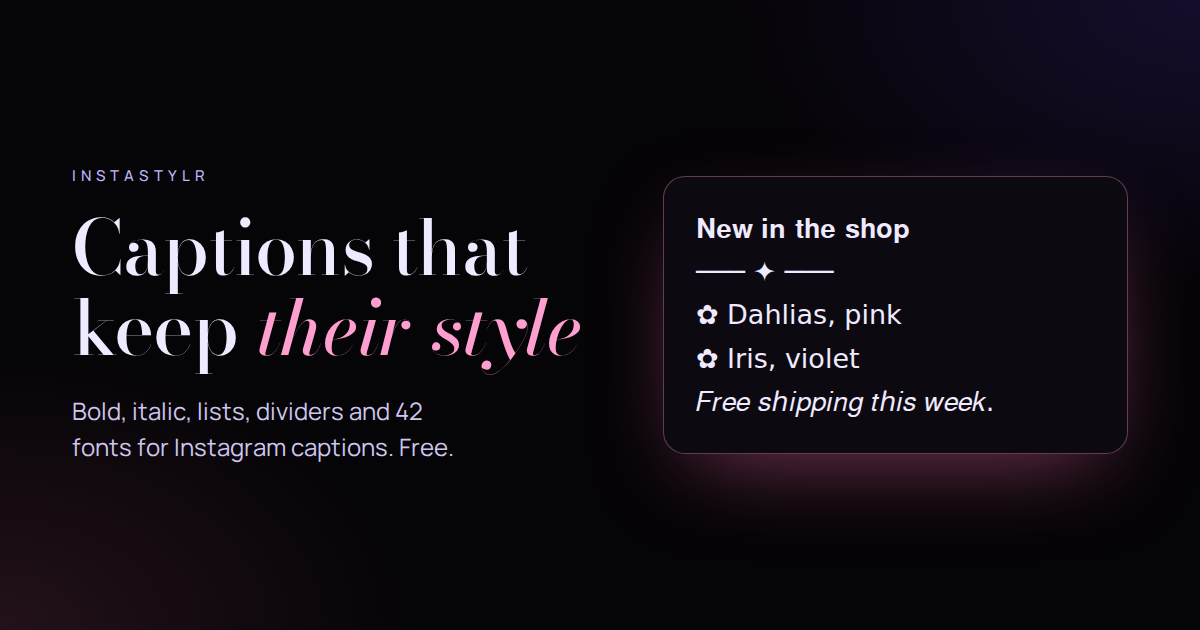
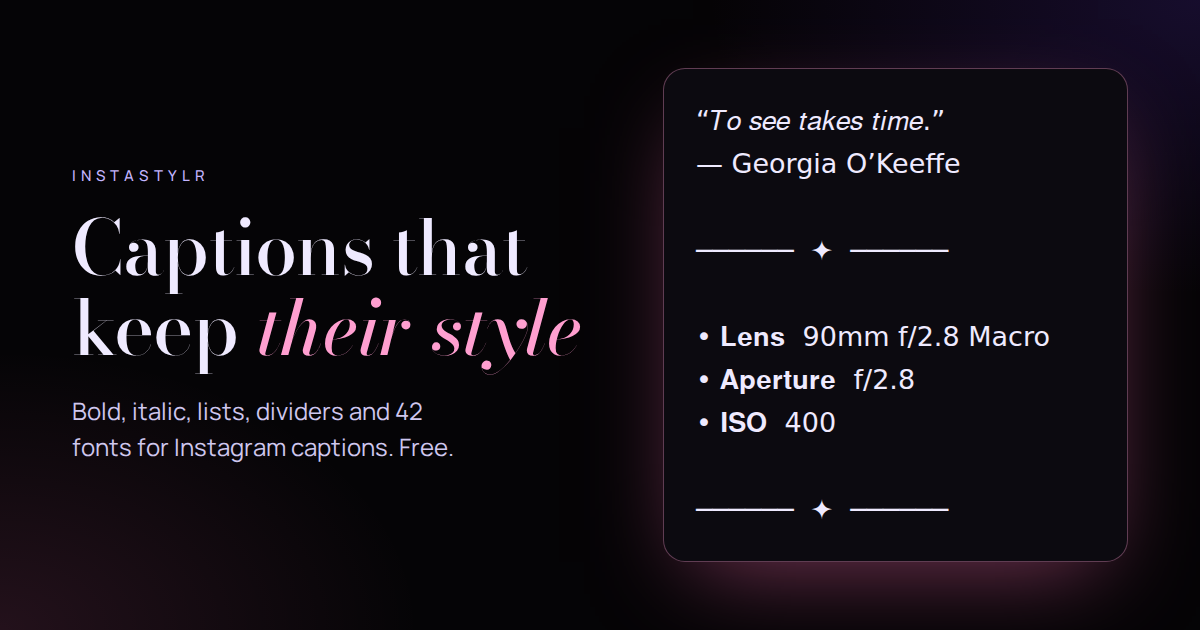
Landing examples: quote + EXIF post, polished bio/video/LinkedIn; hero styles only the selection
- Post example: a serif-italic quote, its author plain, then the camera
  details (camera, lens, focal length, aperture, shutter, ISO) as a bulleted
  list with bold labels and plain values, between two identical rules.
- Bio, video and LinkedIn examples tidied: the bio fits 150 characters,
  YouTube chapter lines start with their timestamp (so chapters still work),
  LinkedIn uses the sans family throughout with a numbered list.
- Examples now put a blank line above and below each divider, as the app
  does when it copies.
- Hero film: Script used to restyle the whole caption while only 'in Lisbon'
  was selected (the real app was right). Now bold and italic go on 'Golden
  hour' and Script on 'in Lisbon' only; the styling still selects the whole
  caption before its font menu and drops styles the new font lacks.
  A test fails if any frame or still restyles unselected text.
- Share image regenerated with the new caption.

diff --git a/src/landing/scenes.ts b/src/landing/scenes.ts
@@ -28,43 +28,55 @@ export function plainLines(lines: Line[]): string[] {
 }
 const text = (lines: Line[], styled: boolean) => (styled ? outputLines(lines) : plainLines(lines)).join("\n");
 
+/** A horizontal rule used above and below a block (the EXIF details, the gear list). */
+const RULE = "──────  ✦  ──────";
+
 export const SCENE_TEXT: Record<string, Line[]> = {
+  // A photographer's post: a quote (serif italic), its author (plain), then the camera
+  // details between two matching rules, one bulleted line each, labels in bold.
   caption: [
-    { segs: [t("New in the shop", { bold: true })] },
-    { divider: "─── ✦ ───" },
-    { segs: [t("Three prints from the night garden:")] },
-    { segs: [t("Dahlias, pink")], bullet: "✿" },
-    { segs: [t("Iris, violet")], bullet: "✿" },
-    { segs: [t("Water lilies")], bullet: "✿" },
-    { divider: "─── ✦ ───" },
-    { segs: [t("Free shipping this week.", { italic: true })] },
+    { segs: [t("“Nobody sees a flower really; it is so small. We haven’t time, and to see takes time.”", { italic: true })] },
+    { segs: [t("— Georgia O’Keeffe")] },
+    { divider: RULE },
+    { segs: [t("Camera", { bold: true }), t("  Sony α7 IV")], bullet: "•" },
+    { segs: [t("Lens", { bold: true }), t("  90mm f/2.8 Macro")], bullet: "•" },
+    { segs: [t("Focal length", { bold: true }), t("  90mm")], bullet: "•" },
+    { segs: [t("Aperture", { bold: true }), t("  f/2.8")], bullet: "•" },
+    { segs: [t("Shutter", { bold: true }), t("  1/200s")], bullet: "•" },
+    { segs: [t("ISO", { bold: true }), t("  400")], bullet: "•" },
+    { divider: RULE },
   ],
+  // A bio: name in bold, a line in serif italic, two short points, a pointer to the link.
   bio: [
     { segs: [t("Les Fleurs de la Nuit", { bold: true })] },
     { segs: [t("Flowers, photographed after dark", { italic: true })] },
-    { segs: [t("New prints every month")], bullet: "✿" },
-    { segs: [t("Tutorials on Fridays")], bullet: "✿" },
-    { divider: "─── ✦ ───" },
+    { segs: [t("Fine-art prints")], bullet: "✦" },
+    { segs: [t("Tutorials every Friday")], bullet: "✦" },
+    { segs: [t("↓ The night garden shop")] },
   ],
   title: [{ segs: [t("Photographing lilies at dusk", { bold: true })] }],
+  // YouTube turns timestamps at the start of a line into chapters, so those lines stay bare.
   description: [
-    { segs: [t("In this video", { bold: true })] },
-    { segs: [t("0:00 Finding the light")], bullet: "➤" },
-    { segs: [t("2:10 Camera settings")], bullet: "➤" },
-    { segs: [t("5:45 Editing the colour")], bullet: "➤" },
-    { divider: "─── ✦ ───" },
+    { segs: [t("Chapters", { bold: true })] },
+    { segs: [t("0:00  Finding the light")] },
+    { segs: [t("2:10  Camera settings")] },
+    { segs: [t("5:45  Editing the colour")] },
+    { divider: RULE },
     { segs: [t("Gear", { bold: true })] },
-    // plain: italic has no digits, so "50mm f/1.8" would come out half styled
-    { segs: [t("50mm f/1.8, a tripod, patience.")] },
+    { segs: [t("Sony α7 IV")], bullet: "•" },
+    { segs: [t("90mm f/2.8 Macro")], bullet: "•" },
+    { segs: [t("A tripod, and patience")], bullet: "•" },
+    { divider: RULE },
   ],
-  headline: [{ segs: [t("Photographer", { font: "sans", bold: true }), t(" · Creator · Teacher", { font: "sans" })] }],
+  // LinkedIn's own type is sans-serif, so the styling here is the sans family throughout.
+  headline: [{ segs: [t("Flower photographer", { font: "sans", bold: true }), t("  ·  Educator", { font: "sans" })] }],
   linkedin: [
-    { segs: [t("Three things low light taught me", { bold: true })] },
-    { segs: [t("Slow down: the light won't wait, but the flower will.")], bullet: "➤" },
-    { segs: [t("Underexpose, then lift the colour.")], bullet: "➤" },
-    { segs: [t("A dark background is a frame.")], bullet: "➤" },
-    { divider: "━━━━━━━━━━" },
-    { segs: [t("Workshops open next month.", { italic: true })] },
+    { segs: [t("Three things low light taught me", { font: "sans", bold: true })] },
+    { segs: [t("Slow down. The light won’t wait, but the flower will.")], bullet: "1." },
+    { segs: [t("Underexpose, then lift the colour.")], bullet: "2." },
+    { segs: [t("A dark background is a frame.")], bullet: "3." },
+    { segs: [t("")] },
+    { segs: [t("Workshops open next month.", { font: "sans", italic: true })] },
   ],
 };
 

diff --git a/e2e/landing.spec.ts b/e2e/landing.spec.ts
@@ -26,10 +26,24 @@ test("landing page: only the hero is animated; sections are ordinary blocks with
   // The result section: the same caption plain and styled, from the real engine.
   const plain = page.locator('[data-scene-card="plain"]');
   const styled = page.locator('[data-scene-card="styled"]');
-  await expect(plain).toContainText("New in the shop");
-  await expect(plain).not.toContainText("✿");
-  await expect(styled).toContainText("𝐍𝐞𝐰 𝐢𝐧 𝐭𝐡𝐞 𝐬𝐡𝐨𝐩");
-  await expect(styled).toContainText("✿ Dahlias, pink");
+  await expect(plain).toContainText("Nobody sees a flower really");
+  await expect(plain).not.toContainText("•");
+  await expect(plain).not.toContainText("──");
+  // quote in serif italic, author plain, then the EXIF block between two identical rules, labels bold
+  await expect(styled).toContainText("𝑁𝑜𝑏𝑜𝑑𝑦 𝑠𝑒𝑒𝑠 𝑎 𝑓𝑙𝑜𝑤𝑒𝑟");
+  await expect(styled).toContainText("— Georgia O’Keeffe");
+  await expect(styled).toContainText("• 𝐀𝐩𝐞𝐫𝐭𝐮𝐫𝐞  f/2.8");
+  await expect(styled).toContainText("• 𝐈𝐒𝐎  400");
+  const lines = (await styled.locator(".scene-text").innerText()).split("\n");
+  const rules = lines.filter((l) => l.includes("──"));
+  expect(rules.length).toBe(2);
+  expect(rules[0]).toBe(rules[1]);
+  expect(lines.indexOf(rules[0])).toBeLessThan(lines.findIndex((l) => l.startsWith("• ")));
+  expect(lines.lastIndexOf(rules[1])).toBe(lines.length - 1);
+  // as in the app, a rule has a blank line on each side
+  const r0 = lines.indexOf(rules[0]);
+  expect(lines[r0 - 1]).toBe("");
+  expect(lines[r0 + 1]).toBe("");
   await expect(page.locator(".post-card img.post-photo")).toHaveCount(2);
   expect(await page.locator(".post-card img.post-photo").first().evaluate((i: HTMLImageElement) => i.complete && i.naturalWidth > 0 || new Promise((r) => (i.onload = () => r(true))))).toBe(true);
   await expect(page.locator(".places")).toHaveCount(0); // one worked example (the posts) is enough
@@ -202,9 +216,10 @@ test("before/after: the tabs under it switch the place, the Instagram post is th
 
   await page.locator('[data-scene="video"]').click();
   await expect(styled).toHaveClass(/scene-video/);
-  await expect(styled).toContainText("➤ 2:10 Camera settings");
-  await expect(plain).toContainText("2:10 Camera settings");
-  await expect(plain).not.toContainText("➤");
+  // chapter lines start with their timestamp, so YouTube still makes chapters of them
+  expect((await styled.locator(".video-desc").innerText()).split("\n")).toContain("2:10  Camera settings");
+  await expect(styled).toContainText("• 90mm f/2.8 Macro");
+  await expect(plain).not.toContainText("•");
   await expect(page.locator('[data-scene="video"]')).toHaveAttribute("aria-selected", "true");
   await expect(page.locator("#scene-panel")).toHaveAttribute("aria-label", "YouTube video");
 
@@ -212,7 +227,8 @@ test("before/after: the tabs under it switch the place, the Instagram post is th
   await page.locator('[data-scene="video"]').focus();
   await page.keyboard.press("ArrowRight");
   await expect(styled).toHaveClass(/scene-linkedin/);
-  await expect(styled).toContainText("𝗣𝗵𝗼𝘁𝗼𝗴𝗿𝗮𝗽𝗵𝗲𝗿");
+  await expect(styled).toContainText("𝗙𝗹𝗼𝘄𝗲𝗿 𝗽𝗵𝗼𝘁𝗼𝗴𝗿𝗮𝗽𝗵𝗲𝗿");
+  await expect(styled).toContainText("1. Slow down.");
   await page.keyboard.press("Home");
   await expect(styled).toHaveClass(/scene-post/);
 
@@ -234,4 +250,13 @@ test("before/after on a phone: the tabs stay on screen while the stacked cards a
   expect(box.y).toBeGreaterThan(0);
   await page.locator('[data-scene="bio"]').tap();
   await expect(page.locator('[data-scene-card="plain"]')).toHaveClass(/scene-bio/);
+});
+
+test("before/after: the bio example fits Instagram's 150-character limit", async ({ page }) => {
+  await page.goto("/");
+  await page.locator('[data-scene="bio"]').click();
+  const styled = page.locator('[data-scene-card="styled"] .scene-text');
+  await expect(styled).toContainText("𝐋𝐞𝐬 𝐅𝐥𝐞𝐮𝐫𝐬");
+  const bio = await styled.innerText();
+  expect([...new Intl.Segmenter().segment(bio)].length).toBeLessThanOrEqual(150);
 });

diff --git a/src/landing/demos.ts b/src/landing/demos.ts
@@ -26,13 +26,18 @@ export const stylesDemo: Demo = {
   steps: 9,
   at(step) {
     const font = step >= 7 ? "currency" : step >= 6 ? "fraktur" : step >= 5 ? "script" : "serif";
-    const first: Seg = { text: "Golden hour", bold: step >= 2, selected: step === 1 || step === 2, font };
-    const mid: Seg = { text: " ", font };
-    const last: Seg = { text: "in Lisbon", italic: step >= 3, selected: step === 3, font };
+    // Fonts go on what is selected, so before the font menu the whole caption gets selected
+    // (steps 4-7). Like the app, a font without italic (or bold) drops that style.
+    const all = step >= 4 && step <= 7;
+    const keepsBold = font !== "currency";
+    const keepsItalic = font === "serif";
+    const first: Seg = { text: "Golden hour", bold: step >= 2 && keepsBold, selected: step === 1 || step === 2 || all, font };
+    const mid: Seg = { text: " ", font, selected: all };
+    const last: Seg = { text: "in Lisbon", italic: step >= 3 && keepsItalic, selected: step === 3 || all, font };
     const menuOpen = step >= 4 && step <= 7;
     const cursor = ["", "seg:0:0", "bold", "italic", "font", "pop:2", "pop:3", "pop:4", "copy"][step] || undefined;
     return {
-      lines: [line(first, mid, last), line(seg("#travel #portugal", { font }))],
+      lines: [line(first, mid, last), line(seg("#travel #portugal", { font, selected: all }))],
       caret: step === 0,
       bold: step === 2,
       italic: step === 3,
@@ -139,22 +144,23 @@ export function heroFrames(): Frame[] {
   const plain = base([seg(a), seg(b)], { caret: true });
   push(plain, 900);
 
+  // Every change lands only on the words selected at that moment, as in the app:
+  // "Golden hour" gets bold, then italic; "in Lisbon" gets Script.
   const selA = base([seg(a, { selected: true }), seg(b)]);
   const boldA = base([seg(a, { bold: true, selected: true }), seg(b)], { bold: true });
-  const selB = base([seg(a, { bold: true }), seg(b, { selected: true })]);
-  const italB = base([seg(a, { bold: true }), seg(b, { italic: true, selected: true })], { italic: true });
-  const styled = base([seg(a, { bold: true }), seg(b, { italic: true })]);
-  const menu = (active: number): State => ({ ...styled, popover: { kind: "fonts", items: FONT_MENU, active } });
-  const scriptSegs = [seg(a, { bold: true, font: "script" }), seg(b, { italic: true, font: "script" })];
-  const script = base(scriptSegs, { font: "script" });
-  const withEmoji = base([...scriptSegs, seg(" 🌅", { font: "script" })], { font: "script" });
+  const boldItalA = base([seg(a, { bold: true, italic: true, selected: true }), seg(b)], { bold: true, italic: true });
+  const selB = base([seg(a, { bold: true, italic: true }), seg(b, { selected: true })]);
+  const menu = (active: number): State => ({ ...selB, popover: { kind: "fonts", items: FONT_MENU, active } });
+  const scriptB = (selected: boolean) => [seg(a, { bold: true, italic: true }), seg(b, { font: "script", selected })];
+  const script = base(scriptB(false), { font: "script" });
+  const withEmoji = base([...scriptB(false), seg(" 🌅", { font: "script" })], { font: "script" });
 
   act("seg:0:0", plain, selA, 900); // select "Golden hour"
-  act("bold", selA, boldA, 1400); // press B → it turns bold
-  act("seg:0:1", boldA, selB, 900); // select "in Lisbon"
-  act("italic", selB, italB, 1400); // press I → it turns italic
-  act("font", italB, menu(0), 1000); // open the font menu
-  act("pop:2", menu(0), { ...script, popover: { kind: "fonts", items: FONT_MENU, active: 2 } }, 1300); // choose Script
+  act("bold", selA, boldA, 1300); // press B → it turns bold
+  act("italic", boldA, boldItalA, 1300); // press I → bold italic
+  act("seg:0:1", boldItalA, selB, 900); // select "in Lisbon"
+  act("font", selB, menu(0), 1000); // open the font menu
+  act("pop:2", menu(0), { ...base(scriptB(true), { font: "script" }), popover: { kind: "fonts", items: FONT_MENU, active: 2 } }, 1300); // choose Script: only "in Lisbon" changes
   push(script, 700);
   push({ ...withEmoji, caret: true }, 1300);
   act("copy", { ...withEmoji, caret: true }, { ...withEmoji, copied: true }, 2600); // press Copy

diff --git a/src/landing/demos.test.ts b/src/landing/demos.test.ts
@@ -18,7 +18,8 @@ describe("demos", () => {
     expect(outputOf(stylesDemo.at(2).lines)).toContain("𝐆𝐨𝐥𝐝𝐞𝐧 𝐡𝐨𝐮𝐫");
     expect(outputOf(stylesDemo.at(3).lines)).toContain("𝑖𝑛 𝐿𝑖𝑠𝑏𝑜𝑛");
     expect(stylesDemo.at(4).popover?.kind).toBe("fonts");
-    expect(outputOf(stylesDemo.at(5).lines)).toContain("𝓖𝓸𝓵𝓭𝓮𝓷");
+    expect(outputOf(stylesDemo.at(5).lines)).toContain("𝓖𝓸𝓵𝓭𝓮𝓷"); // bold carries over: Script has a bold
+    expect(stylesDemo.at(4).lines.flatMap((l) => ("segs" in l ? l.segs : [])).every((s) => s.selected)).toBe(true); // all selected before the font menu
     expect(stylesDemo.at(7).font).toBe("currency");
     expect(stylesDemo.at(8).copied).toBe(true);
     expect(stylesDemo.at(5).cursor).toBe("pop:2");
@@ -57,7 +58,7 @@ describe("demos", () => {
     const f = heroFrames();
     const sig = (st: (typeof f)[number]["state"]) => JSON.stringify({ ...st, cursor: undefined, press: undefined });
     const presses = f.map((x, i) => ({ x, i })).filter(({ x }) => x.state.press);
-    expect(presses.length).toBe(7); // select, B, select, I, font menu, Script, Copy
+    expect(presses.length).toBe(7); // select, B, I, select, font menu, Script, Copy
     for (const { x, i } of presses) {
       const travel = f[i - 1];
       // the frame before a press: pointer already on the same control, not pressing, long enough to get there…
@@ -74,7 +75,29 @@ describe("demos", () => {
     const iAt = f.findIndex((x) => x.state.press && x.state.cursor === "italic");
     expect(f.slice(0, bAt).some((x) => outputOf(x.state.lines).includes("𝐆"))).toBe(false);
     expect(outputOf(f[bAt].state.lines)).toContain("𝐆𝐨𝐥𝐝𝐞𝐧 𝐡𝐨𝐮𝐫");
-    expect(f.slice(0, iAt).some((x) => outputOf(x.state.lines).includes("𝑖𝑛"))).toBe(false);
-    expect(outputOf(f[iAt].state.lines)).toContain("𝑖𝑛 𝐿𝑖𝑠𝑏𝑜𝑛");
+    expect(f.slice(0, iAt).some((x) => outputOf(x.state.lines).includes("𝑮"))).toBe(false);
+    expect(outputOf(f[iAt].state.lines)).toContain("𝑮𝒐𝒍𝒅𝒆𝒏 𝒉𝒐𝒖𝒓"); // bold italic
+    // Script lands on "in Lisbon" only: "Golden hour" keeps its bold italic serif
+    const sAt = f.findIndex((x) => x.state.press && x.state.cursor === "pop:2");
+    expect(outputOf(f[sAt].state.lines)).toBe("𝑮𝒐𝒍𝒅𝒆𝒏 𝒉𝒐𝒖𝒓 𝒾𝓃 ℒ𝒾𝓈𝒷ℴ𝓃");
+  });
+
+  /** Between two moments, any piece of text whose style changed must have been selected (as in the app). */
+  const onlySelectedChanges = (states: import("./state").State[]) => {
+    const segs = (st: import("./state").State) => st.lines.flatMap((l) => ("segs" in l ? l.segs : []));
+    const look = (s: import("./state").Seg) => `${s.font ?? "serif"}|${Boolean(s.bold)}|${Boolean(s.italic)}`;
+    for (let i = 1; i < states.length; i++) {
+      const before = segs(states[i - 1]);
+      const after = segs(states[i]);
+      if (before.length !== after.length) continue; // text was typed or split: nothing restyled
+      after.forEach((s, j) => {
+        if (look(s) !== look(before[j]) && s.text.trim())
+          expect(s.selected || before[j].selected, `"${s.text}" restyled without being selected (moment ${i})`).toBe(true);
+      });
+    }
+  };
+  it("hero: only selected words ever change style", () => onlySelectedChanges(heroFrames().map((f) => f.state)));
+  it("stills: only selected words ever change style", () => {
+    for (const d of Object.values(DEMOS)) onlySelectedChanges(Array.from({ length: d.steps }, (_, s) => d.at(s)));
   });
 });

diff --git a/src/landing/state.ts b/src/landing/state.ts
@@ -48,15 +48,32 @@ export function lineText(line: Line): string {
   return "divider" in line ? line.divider : line.segs.map((s) => s.text).join("");
 }
 
-/** What the app's output panel would show, one entry per line. */
+/**
+ * What the app's output panel would show, one entry per line. Like the app
+ * (editor/serialize.ts), a divider gets a blank line above and below it; blank
+ * lines never double up and never start or end the text.
+ */
 export function outputLines(lines: Line[]): string[] {
-  return lines.map((line) => {
-    if ("divider" in line) return line.divider;
-    const text = line.segs
-      .map((s) => transformRun({ text: s.text, fontId: s.font ?? "serif", bold: Boolean(s.bold), italic: Boolean(s.italic) }))
-      .join("");
-    return line.bullet ? `${line.bullet} ${text}` : text;
-  });
+  const out: string[] = [];
+  const blank = () => out.length && out[out.length - 1] !== "" && out.push("");
+  for (const line of lines) {
+    if ("divider" in line) {
+      blank();
+      out.push(line.divider);
+      out.push("");
+      continue;
+    }
+    out.push(renderLine(line));
+  }
+  while (out[out.length - 1] === "") out.pop();
+  return out;
+}
+
+function renderLine(line: Extract<Line, { segs: Seg[] }>): string {
+  const text = line.segs
+    .map((s) => transformRun({ text: s.text, fontId: s.font ?? "serif", bold: Boolean(s.bold), italic: Boolean(s.italic) }))
+    .join("");
+  return line.bullet ? `${line.bullet} ${text}` : text;
 }
 
 export function outputOf(lines: Line[]): string {
